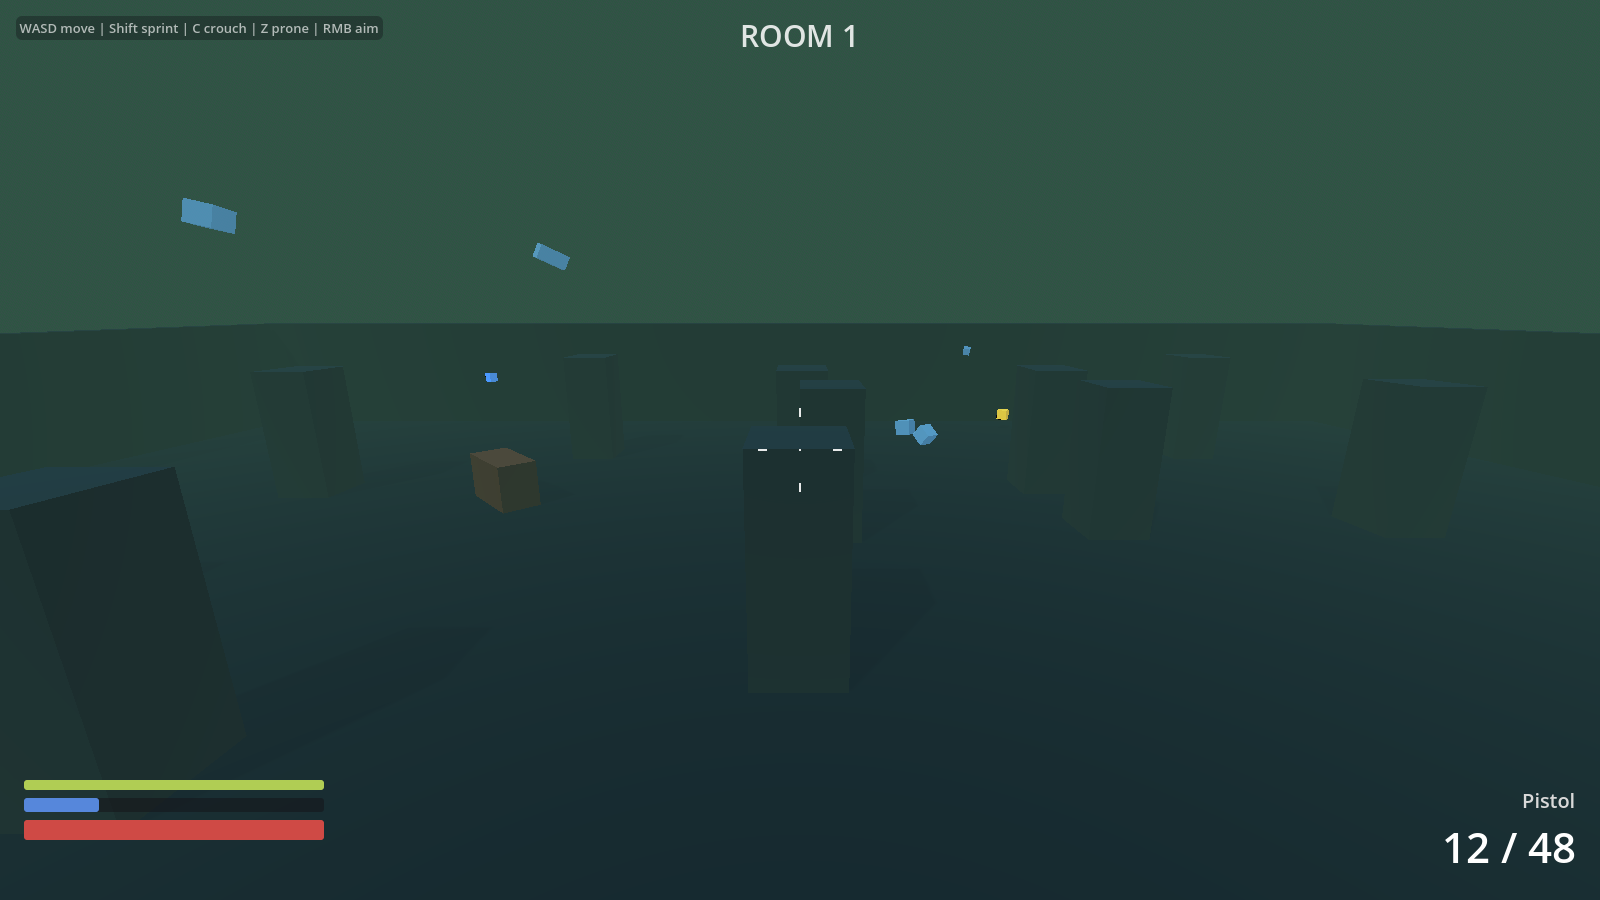
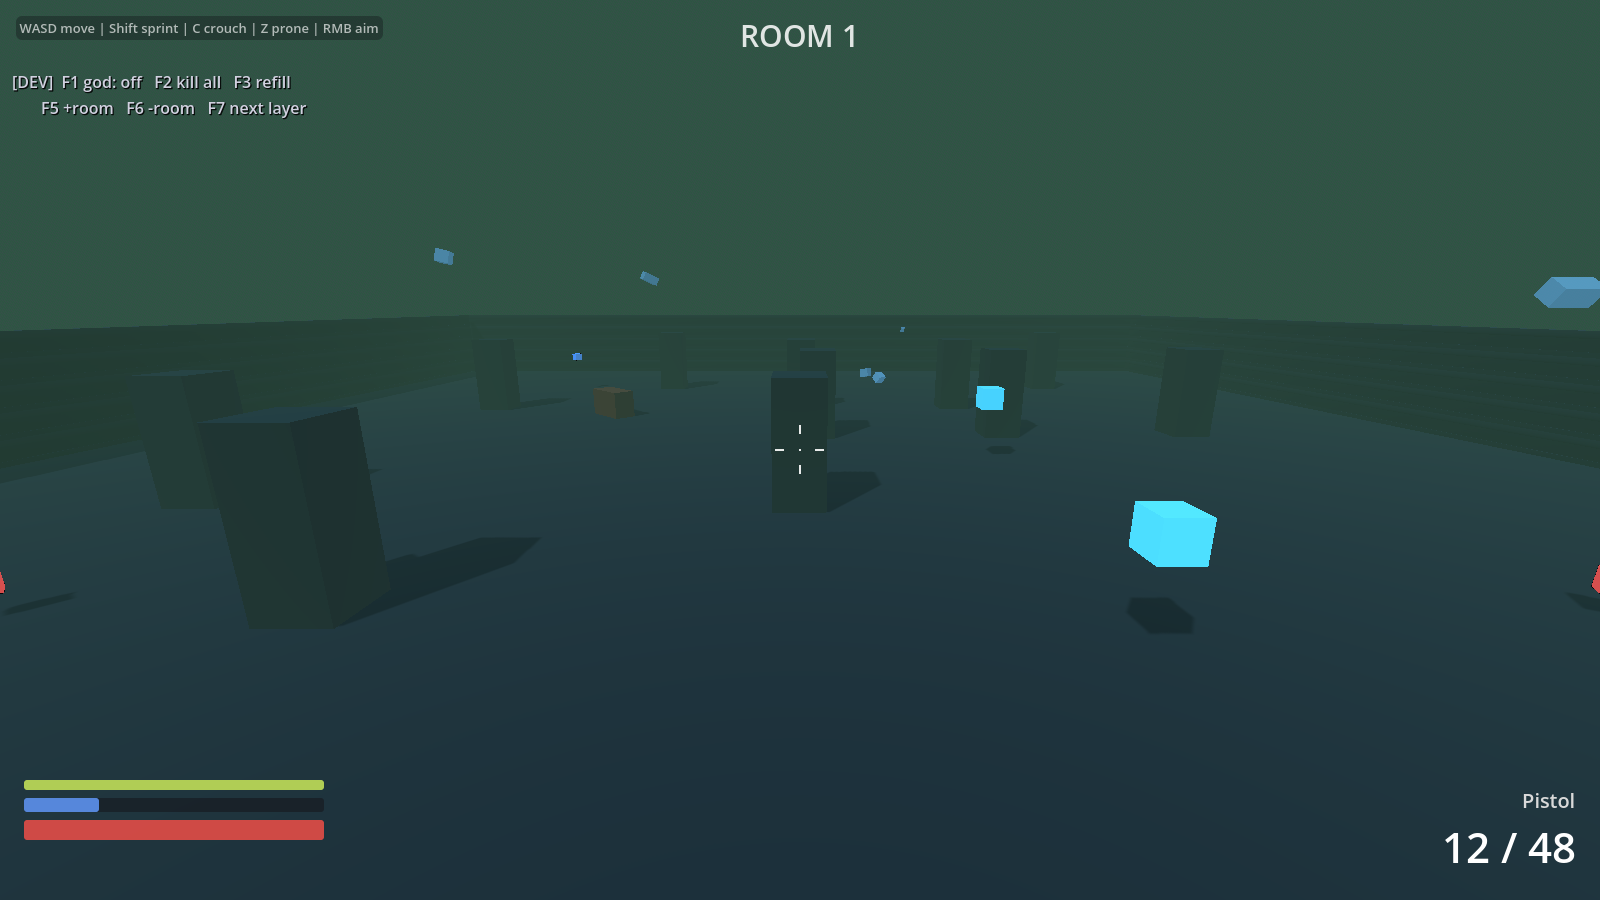
Enable modular kits on real layers (Heap space-station, Stack modular-space)
The kit skin is now live in campaign rooms: the Heap profile carries
"kit":"space_station" (fine 1 m grid) and the Stack "kit":"modular_space" (the
chunky 4 m Kenney modular-space kit), so descending Heap->Stack swaps the whole
pack -- the strongest major-transition read. Both Kenney packs now in use.

- RoomKit is grid-agnostic: reads each piece's AABB, stacks the nearest whole
  wall courses then scales Y to fill WALL_HEIGHT (space-station 5x1 m; modular
  1 course stretched), and aligns the wall inner face by the mesh's local +Z
  extent (centred vs face-origin meshes both work). RoomKit.modular_space()
  factory; _resolve_kit maps the profile "kit" id, cached per id.
- layer_look_test section C retargeted: asserts the kit floor overlay carries
  the layer colour while the gray collision Floor survives with mesh hidden.
- kit_measure / kit_preview extended to both kits. All 41 harnesses green.

diff --git a/context_architecture.md b/context_architecture.md
@@ -312,11 +312,13 @@ scripts. On Windows the Godot exe detaches from the console, so use
     while an empty profile (ENDLESS) returns the authored gray materials byte-for-byte.
     Environment: `_apply_environment(profile, ghost)` turns on the layer's depth fog
     (`fog_color`/`fog_density`) + `ambient_energy`, and an empty profile restores the
-    authored fog-off environment. Render: a real CAMPAIGN Heap room's shell floor
-    carries the Heap colour through the toon shader (reads the toon `albedo` uniform,
-    since the ToonApplicator has swapped material_override by build's end — same trick
-    as the rusher test). The actual look is eyeballed via `tools/layer_look_preview.tscn`
-    (renders a Heap room + a Stack room to PNGs, NON-headless). NOTE: `tools/layout_diag.tscn`
+    authored fog-off environment. Render: the Heap is now KIT-skinned (the layer enables
+    `"kit"`), so section C asserts the kit floor overlay (`GeneratedShell/KitFloor`) carries
+    the Heap floor colour (colormap x palette tint) while the gray collision Floor survives
+    underneath with its mesh hidden -- the build-alongside invariant. (`_albedo_of` reads
+    either a toon ShaderMaterial `albedo` uniform or a StandardMaterial3D `albedo_color`.)
+    The actual look is eyeballed via `tools/layer_look_preview.tscn`
+    (renders the real kitted Heap + Stack rooms to PNGs, NON-headless). NOTE: `tools/layout_diag.tscn`
     is a non-asserting diagnostic that dumps the archetype + footprint picked per room
     per mode — handy for confirming generation variety.
 29. `res://tools/dev_tools_test.tscn` — developer/playtest helpers → `DEV_TOOLS_OK`.
@@ -497,9 +499,16 @@ scripts. On Windows the Godot exe detaches from the console, so use
     T-shape gets `KitFloor`+`KitFloor2` + ≥2 `KitWallNotch*` overlays with NO kit floor tile
     in its bare NE corner; an ENDLESS build (no `"kit"`) stays on the plain gray shell (the
     gate). GATING: `build_room` only skins when `profile.has("kit")`, so ENDLESS + every
-    un-kitted layer is byte-for-byte unchanged. Real layers don't enable kits yet (capability
-    + forced-test first; next: add `"kit"` to Heap/Stack + update `layer_look_test`). GOTCHA
-    fixed here: `_build_shell` now clears old shell boxes IMMEDIATELY (`remove_child` + free,
+    un-kitted layer is byte-for-byte unchanged. LIVE ON REAL LAYERS: the Heap profile carries
+    `"kit":"space_station"` (fine 1 m grid) and the Stack `"kit":"modular_space"` (the chunky
+    4 m Kenney modular-space kit -- full-height single-piece walls + flat 4 m floor planes), so
+    descending Heap->Stack swaps the WHOLE pack, not just the tint. `RoomKit` is grid-agnostic:
+    it reads each piece's AABB, stacks the nearest whole wall courses then scales Y to fill
+    `WALL_HEIGHT` (space-station = 5x1 m; modular = 1 course stretched), and aligns the wall's
+    inner face by the mesh's local +Z extent (centred vs face-origin meshes both work).
+    `layer_look_test` (#28) now asserts the kit overlay carries the layer colour (the gray
+    shell mesh it used to read is hidden once a kit is on). GOTCHA fixed here: `_build_shell`
+    now clears old shell boxes IMMEDIATELY (`remove_child` + free,
     not deferred `queue_free`), else the same-frame re-skin sees a lingering `Floor`/`Wall*`
     that steals the new box's name and gets mis-skinned. Look eyeballed via
     `tools/kit_preview.tscn` (Heap + Stack rect rooms) and `tools/kit_shapes_preview.tscn`

diff --git a/context_systems.md b/context_systems.md
@@ -943,15 +943,23 @@ meshes are invisible to the bake. Assets live under `Assets/kenney_space-station
   unchanged. Kit nodes live under `GeneratedShell`, cleared on the next `_build_shell` (which
   now clears IMMEDIATELY via `remove_child`+free, so the same-frame re-skin doesn't trip on a
   lingering deferred-freed `Floor`/`Wall*` stealing the new box's name).
-- **Status** — Pass A (RoomKit + recolour proof) + Pass B (rect-shell skin wired, gated) +
-  Pass C (generic skin over ALL shapes incl. notched L/T/plus) shipped; `KIT_ROOM_OK`, all
-  41 harnesses green. Real layers do NOT enable kits yet (capability + forced-test first, the
-  build-alongside way). **Next: enable on real layers** = add `"kit"` to the Heap/Stack
-  profiles + update `layer_look_test` (it asserts the gray shell Floor mesh, which the kit
-  hides) so a real campaign run shows the kit + the Heap-vs-Stack recolour in every shape.
+- **Two packs, grid-agnostic** — `RoomKit.space_station()` (fine 1 m grid, 1 m wall courses)
+  and `RoomKit.modular_space()` (chunky 4 m grid, full-height ~4.25 m single-piece walls, flat
+  4 m floor planes). `RoomKit` reads each piece's AABB, so it adapts to any grid: it stacks the
+  nearest whole wall courses then scales Y to fill `WALL_HEIGHT` exactly, and aligns the wall's
+  inner face by the mesh's local +Z extent (handles centred vs face-origin meshes).
+  `RoomBuilder._resolve_kit` maps the profile's `"kit"` id to the pack (cached per id).
+- **Status** — Pass A (RoomKit + recolour) + B (rect skin) + C (generic over all shapes) +
+  LIVE ON REAL LAYERS shipped; `KIT_ROOM_OK`, all 41 harnesses green. The Heap uses the
+  space-station kit, the Stack the modular-space kit (`"kit"` keys in LayerCatalog), so
+  descending Heap->Stack swaps the WHOLE pack -- the strongest major-transition read. Both
+  Kenney packs are in use, as Vor wanted. (Eyeball via `tools/layer_look_preview.tscn` = real
+  kitted Heap + Stack.) TUNING NOTE: the Heap's authored `fog_density` 0.020 is thick enough
+  to obscure much of the new kit detail -- drop toward ~0.012-0.015 if the kit should breathe.
   Later: a toon-shaded tint material; prop vignettes for cover (Pass D — `container*` reads
   as crates better than `structure-barrier`); rigged Kenney characters on enemies (Pass E —
-  needs care vs the primitive-mesh death ragdoll); hand-built hero rooms (Pass F).
+  needs care vs the primitive-mesh death ragdoll); hand-built hero rooms (Pass F); deeper
+  layers (Cache/Kernel/I-O) can remix the two packs (or add a third).
 - **Tools** — `tools/kit_preview.tscn` (Heap + Stack rect rooms) + `tools/kit_shapes_preview.tscn`
   (real generated T + plus kit'd rooms), both NON-headless PNG renders for eyeballing;
   `tools/kit_measure.tscn` (non-asserting) dumps each piece's AABB to recover a kit's module

diff --git a/CLAUDE.md b/CLAUDE.md
@@ -54,14 +54,15 @@ Headings in `context_systems.md`:
   (attach-effect `ShockField` zap) + selector wheel/highlight + RoomBuilder seeds props +
   progression (lobby Cores unlock adjectives, in-run cards rank them). Fully in the run
   economy. Coming: more adjectives. Plan: `hacking_plan.md`.
-- **Modular kit skin (Kenney space-station)** — real visuals over the procgen layout:
-  `RoomKit` skins the generated shell with the Kenney modular kit (floor/wall tiles via
-  MultiMesh, props instanced), recoloured per-layer by multiplying the shared colormap
-  atlas (Heap dim-green vs Stack steel-blue → major-transition variety). Visual-only over
-  the tested collision (navmesh bakes from colliders, untouched). Gated on profile `"kit"`.
-  Pass A + B + C done (`KIT_ROOM_OK`, generic skin over rect/L/T/plus, capability +
-  forced-test); next = enable on real Heap/Stack layers (+ update `layer_look_test`).
-  Assets in `Assets/kenney_*`.
+- **Modular kit skin (Kenney)** — real visuals over the procgen layout: `RoomKit` skins the
+  generated shell with a Kenney modular kit (floor/wall tiles via MultiMesh, props instanced),
+  recoloured per-layer by multiplying the shared colormap atlas. Visual-only over the tested
+  collision (navmesh bakes from colliders, untouched). Gated on profile `"kit"`. Grid-agnostic:
+  the **Heap** uses the space-station kit (fine 1 m grid), the **Stack** the modular-space kit
+  (chunky 4 m grid) → descending swaps the whole pack (major-transition variety). Pass A+B+C +
+  live-on-real-layers done (`KIT_ROOM_OK`, generic over rect/L/T/plus, 41 harnesses green).
+  Next: prop vignettes (Pass D), characters (Pass E), hero rooms (Pass F); deeper layers can
+  remix the packs. Assets in `Assets/kenney_*`.
 - **Developer tools** — DevTools autoload, debug-build cheats (F1 god / F2 kill all / F3 refill / F5-F6 room jump / F7 layer jump). Plus a **Sandbox** test map (main-menu **TEST MAP** → `scenes/ui/sandbox.tscn`): a kitted free-play arena (every hack adjective unlocked + both abilities granted, hackable cubes over dummies) for trying new mechanics outside the run flow.
 - **Current state** — running changelog of everything shipped so far.
 